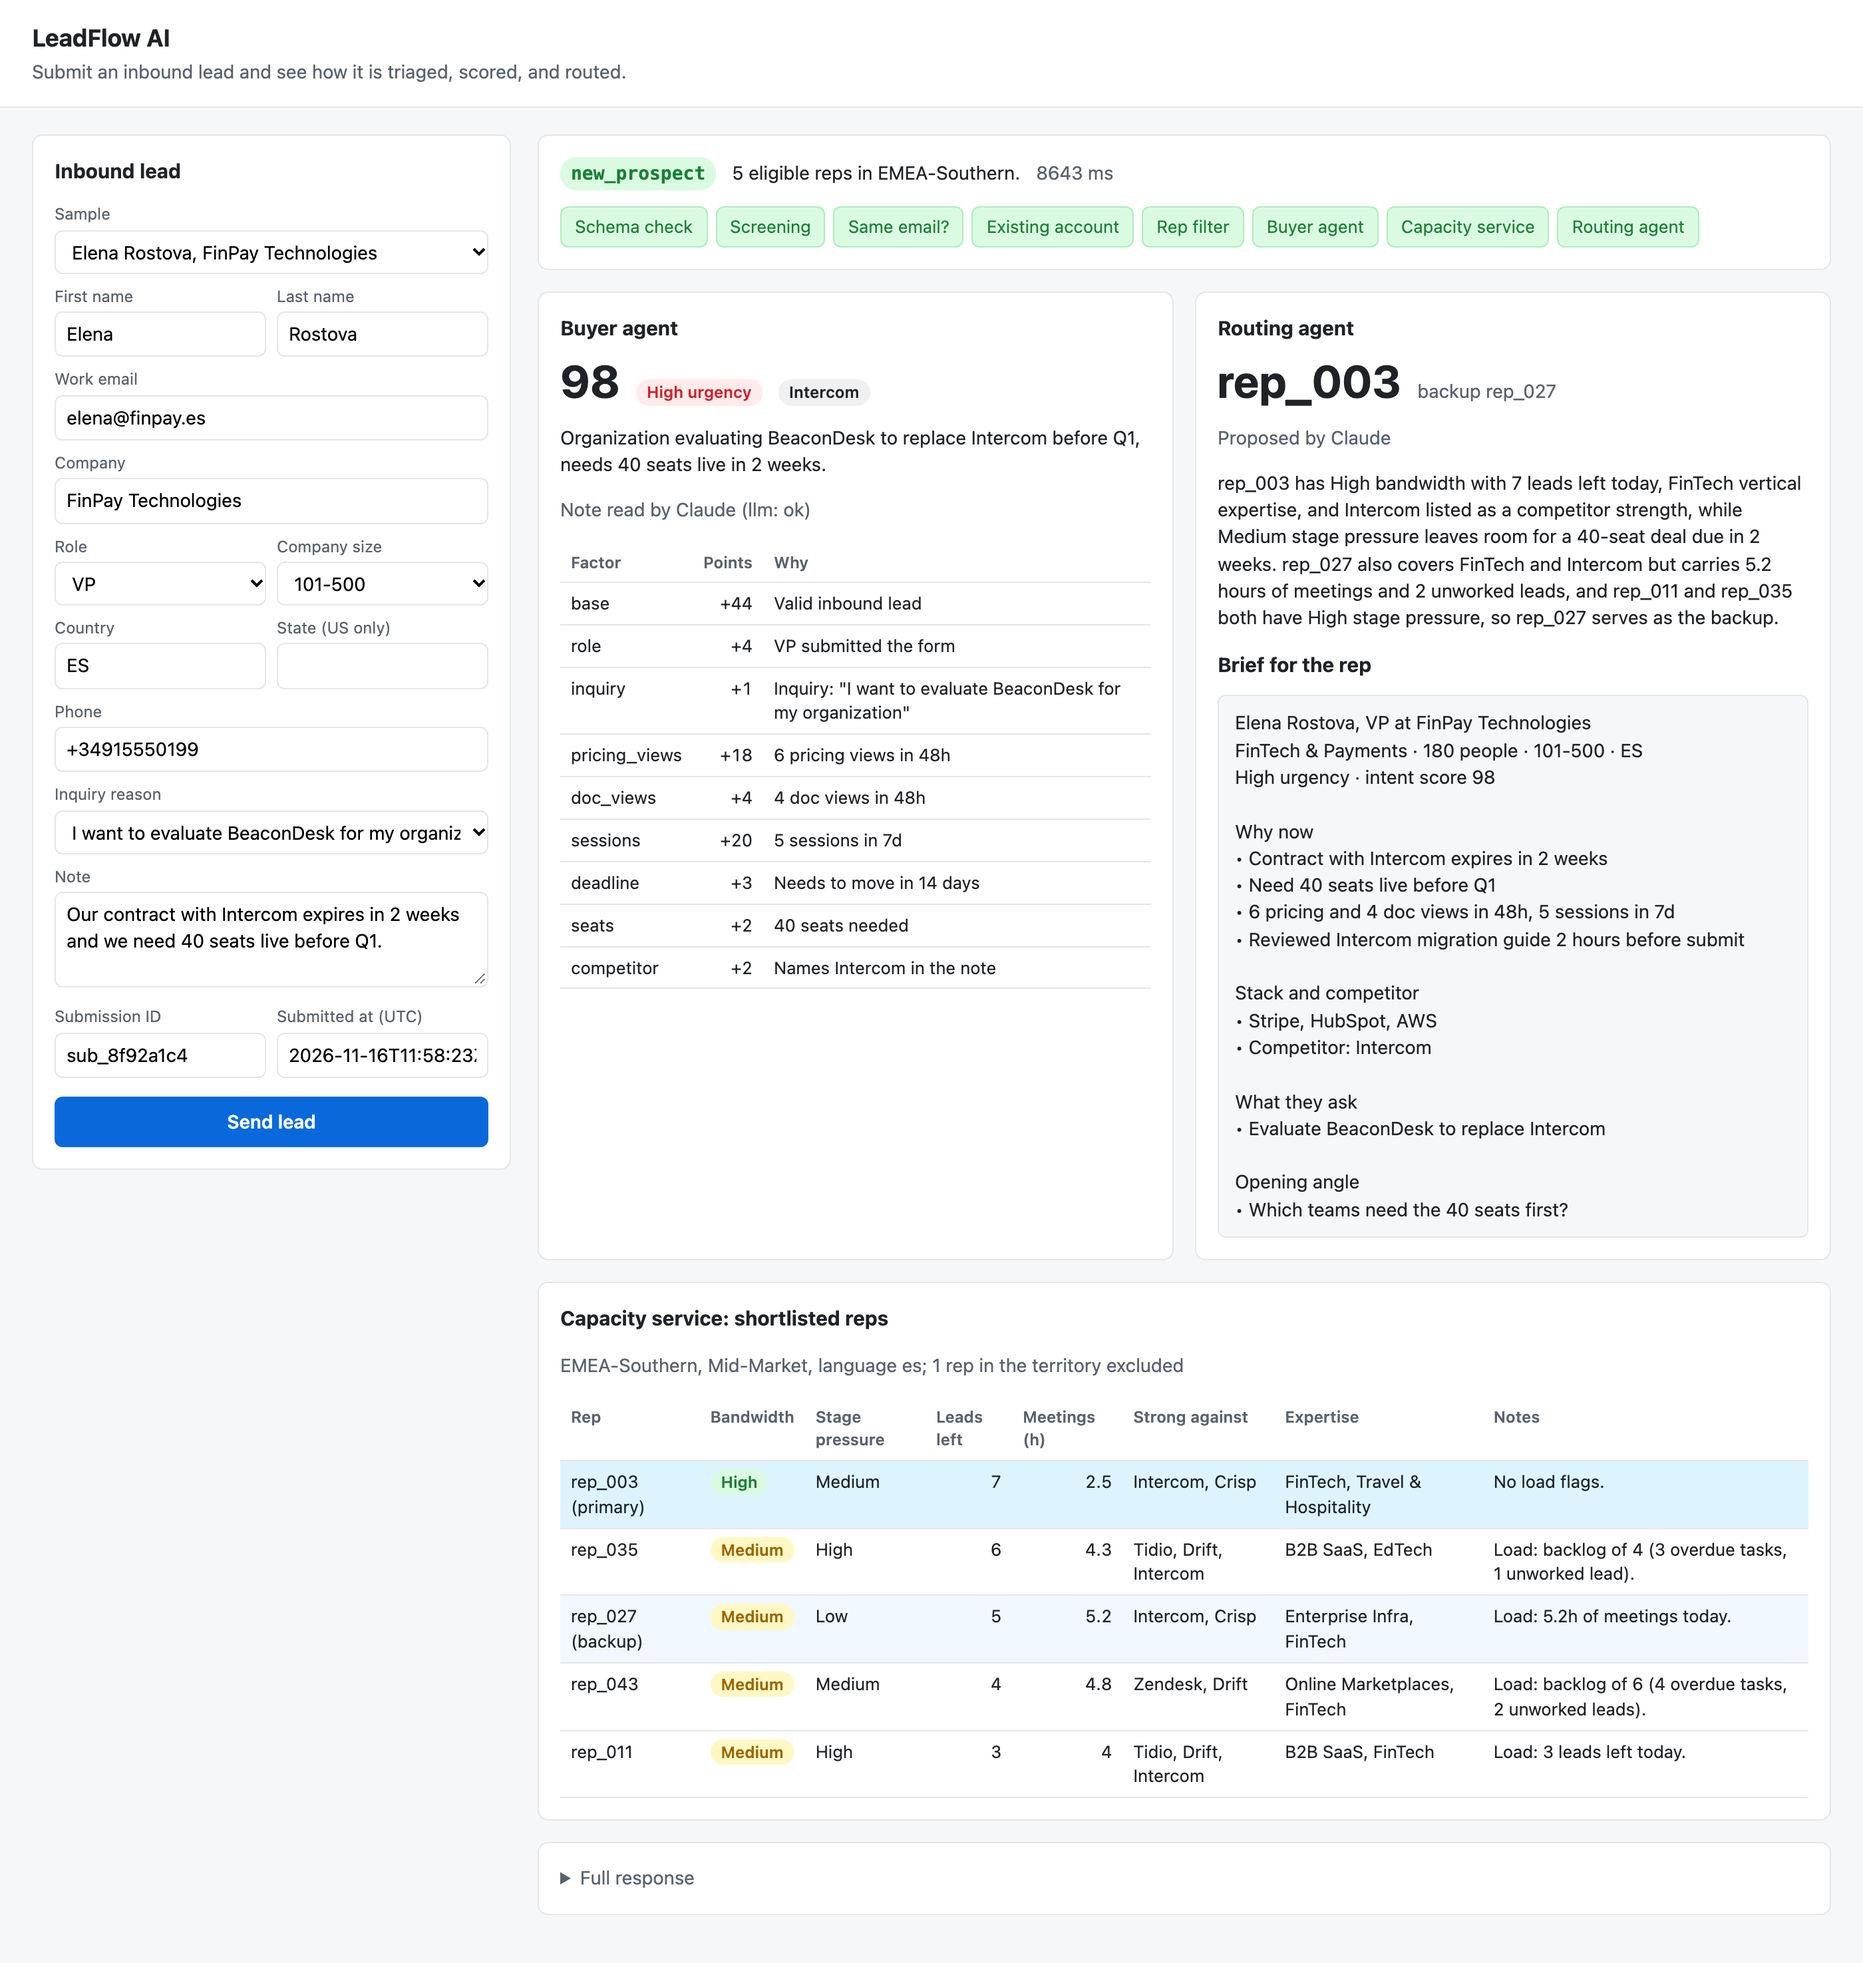
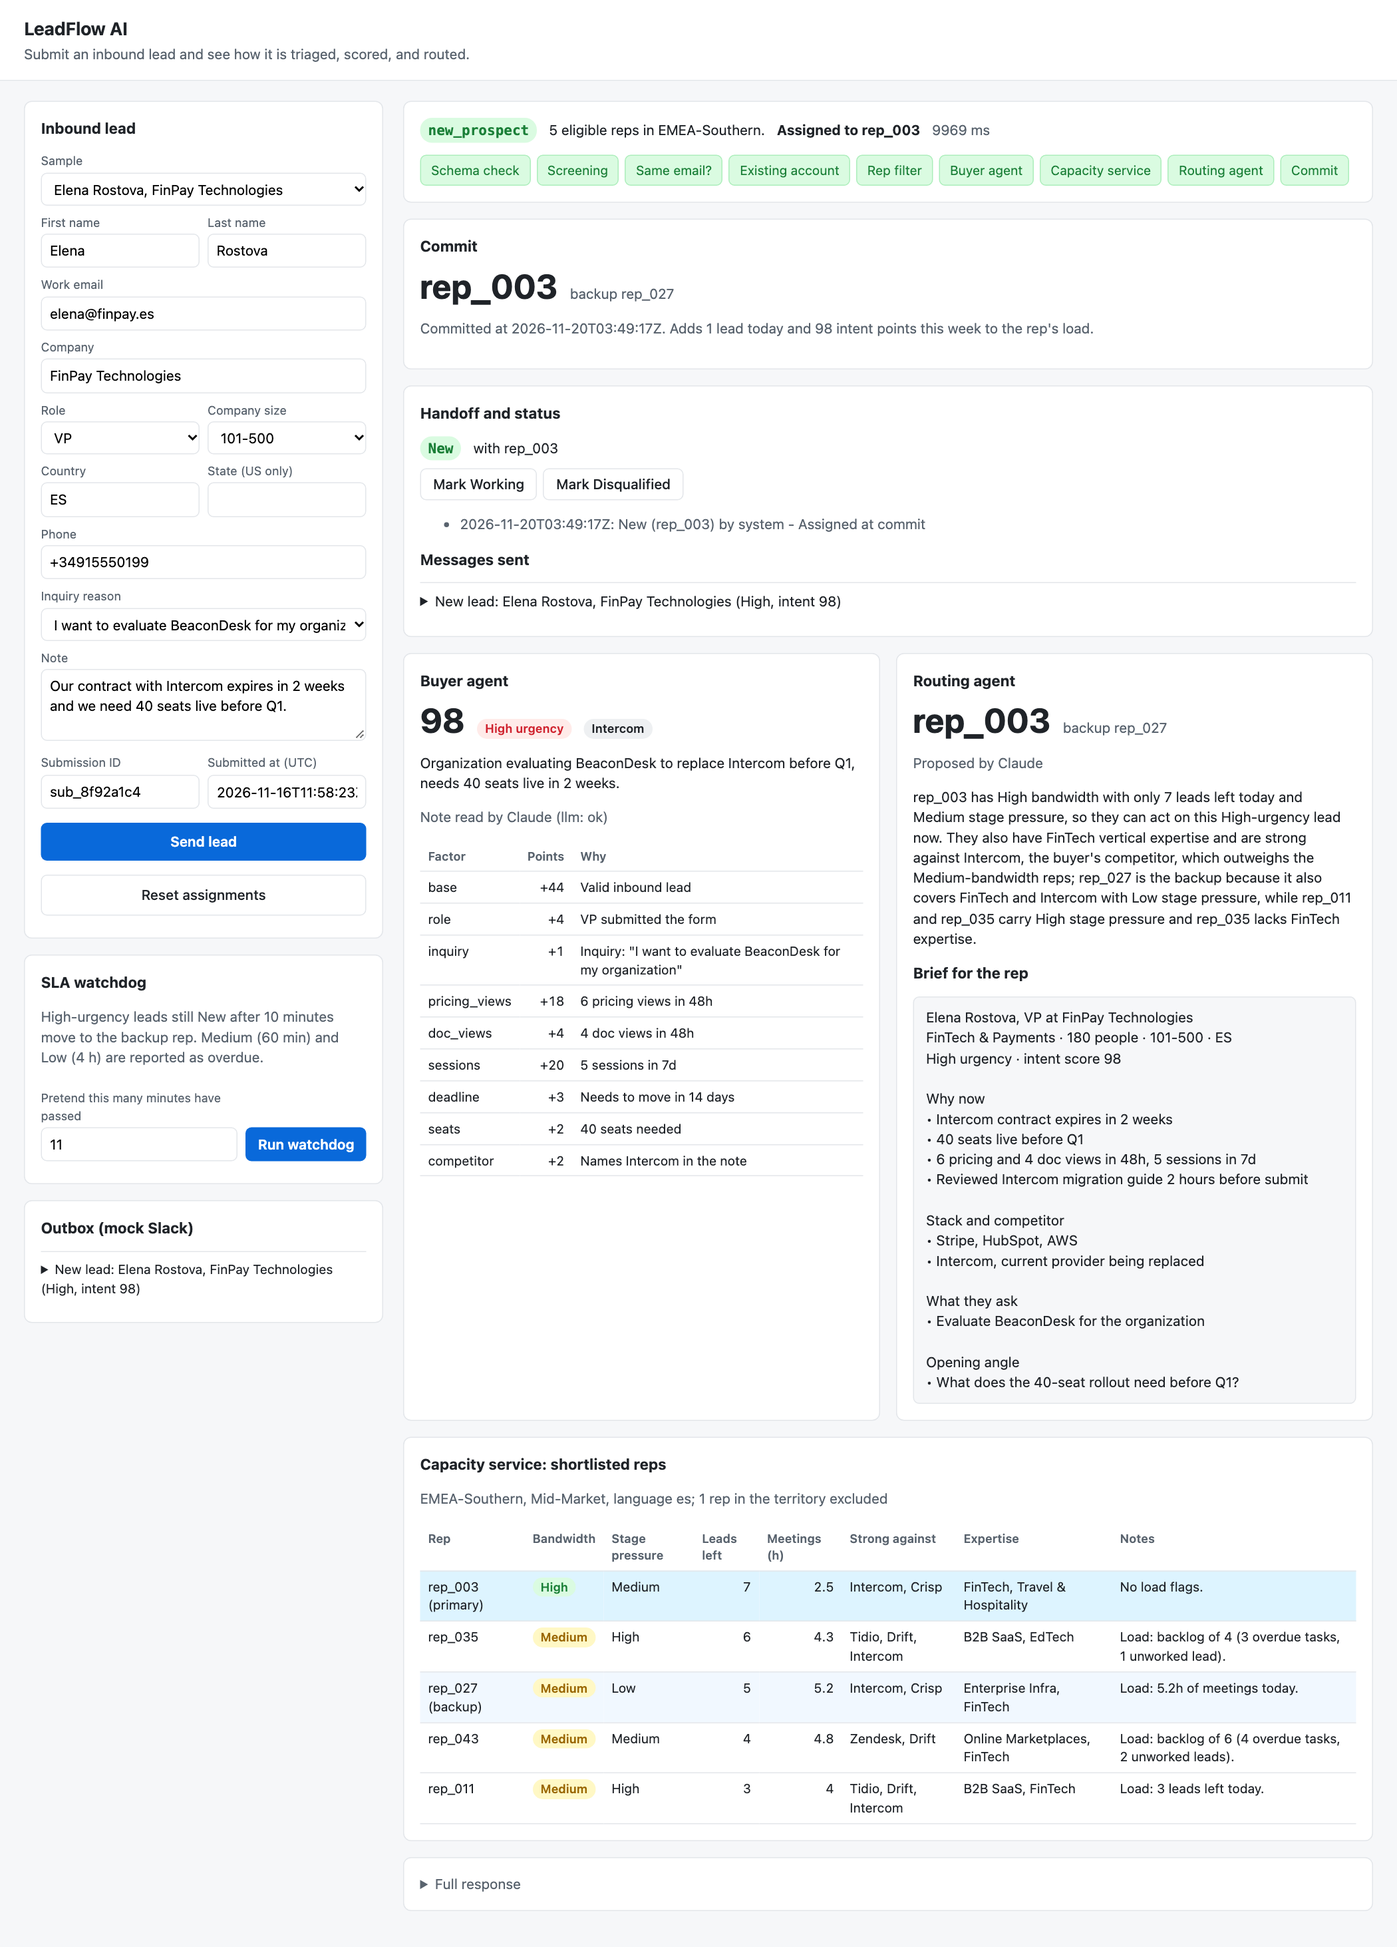
Refresh the demo screenshot with the commit and handoff cards
- Retake docs/demo-page.png: FinPay committed to rep_003, handoff
  message sent, status New, about 10 seconds end to end
- Start the assignment message collapsed on the demo page, since it
  repeats the brief shown in the routing card

diff --git a/leadflow/static/index.html b/leadflow/static/index.html
@@ -335,7 +335,10 @@ function handoffCard(t) {
       })),
     history.length > 0 && el("ul", { class: "muted" }, history),
     el("h2", {}, "Messages sent"),
-    t.messages.length ? t.messages.map((m, i) => messageItem(m, i === t.messages.length - 1)) : el("p", { class: "muted" }, "None"));
+    // The assignment message repeats the brief shown in the routing card, so it starts collapsed.
+    t.messages.length
+      ? t.messages.map((m, i) => messageItem(m, i === t.messages.length - 1 && m.kind !== "assignment"))
+      : el("p", { class: "muted" }, "None"));
 }
 
 async function setStatus(submissionId, status) {

diff --git a/README.md b/README.md
@@ -224,10 +224,10 @@ cp .env.example .env   # then add your ANTHROPIC_API_KEY
 The demo page is at http://127.0.0.1:8000/. Pick a sample lead (the 20 workbook submissions, plus scenarios for an existing customer, two account owners, a closed-lost account, a competitor's address, an unmapped country, and a duplicate), edit it if you like, and send it. The page shows which stage decided the lead, the buyer score and the points behind it, the capacity of each shortlisted rep, and the routing proposal with its rationale and brief. A link such as `http://127.0.0.1:8000/#send=sub_8f92a1c4` picks that sample and sends it straight away, which is handy for a presentation.
 
 <p align="center">
-  <img src="docs/demo-page.png" alt="The demo page after sending the FinPay lead: every stage passed, buyer score 98 High with its breakdown, Claude's routing proposal of rep_003 with backup rep_027 and the rep brief, and the capacity table of the five shortlisted reps" width="100%">
+  <img src="docs/demo-page.png" alt="The demo page after sending the FinPay lead: every stage passed, the lead committed to rep_003 with backup rep_027, its handoff message and New status with Mark Working and Mark Disqualified buttons, buyer score 98 High with its breakdown, Claude's routing rationale and rep brief, and the capacity table of the five shortlisted reps" width="100%">
 </p>
 
-The screenshot shows the FinPay lead (`sub_8f92a1c4`) with Claude reading the note and proposing the route, and the rep brief in its sectioned layout. The request took about 9 seconds end to end.
+The screenshot shows the FinPay lead (`sub_8f92a1c4`) with Claude reading the note and proposing the route. The lead is committed to rep_003, the brief is sent to the outbox, and its status is New until the rep marks it Working. The request took about 10 seconds end to end.
 
 Interactive API docs are at http://127.0.0.1:8000/docs. The `POST /leads` form there is pre-filled with a valid example lead.
 
